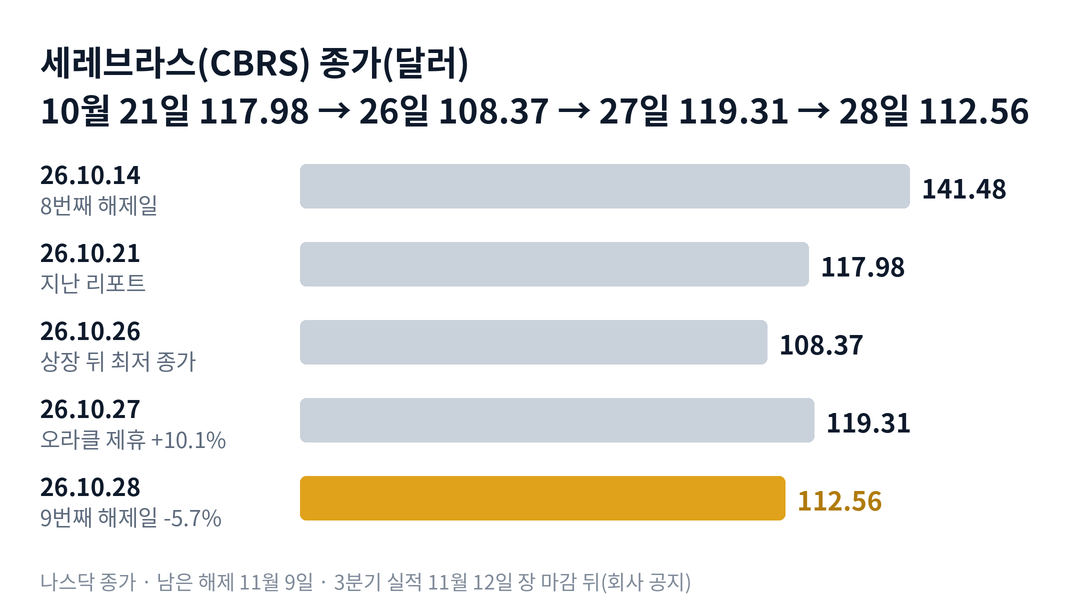
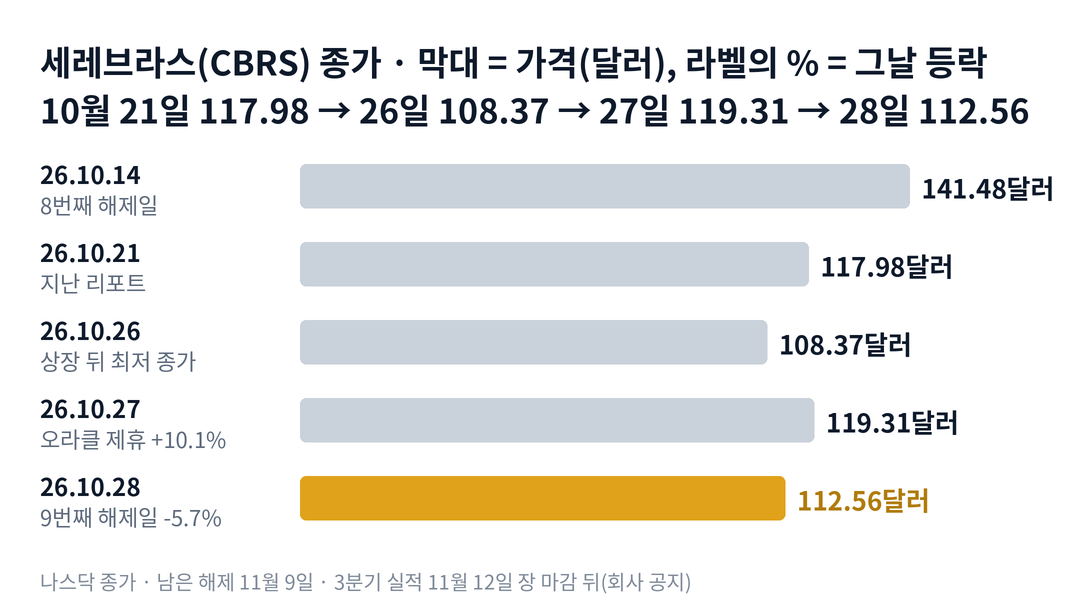
CBRS 10-3 리포트 R1.8 고쳐 쓰기(도입부 압축·EV·RPO·중앙값 병기·유통주식·거래량 대비 물량·국면 정의·판정표 머리·거래량 배수 1.9배 정정) + □ 체크리스트 목록·표 줄바꿈·인쇄 규칙·차트 값 달러 단위
Claude-Session: https://claude.ai/code/session_01DaUBsG9X6bLavyZrFguf5X

diff --git a/static/css/site.css b/static/css/site.css
@@ -159,6 +159,10 @@ button { font: inherit; color: inherit; }
 .prose blockquote { margin: 1.3em 0; padding: 4px 18px; border-left: 4px solid var(--line); color: var(--muted); }
 .table-wrap { overflow-x: auto; margin: 1.3em 0; -webkit-overflow-scrolling: touch; border-radius: 8px; }
 .prose table { width: 100%; border-collapse: collapse; font-size: .88rem; }
+.prose td, .prose th { word-break: keep-all; overflow-wrap: anywhere; }
+.prose ul.checklist { list-style: none; padding-left: 0; }
+.prose ul.checklist li { padding-left: 1.3em; text-indent: -1.3em; }
+@media print { .table-wrap { overflow: visible; } .prose table, .prose tr { page-break-inside: avoid; break-inside: avoid; } }
 .prose .table-text td, .prose .table-text th { white-space: normal; text-align: left !important; vertical-align: top; min-width: 5.5em; }
 .prose .table-text table { font-size: .85rem; }
 @media (max-width: 640px) {

diff --git a/tools/charts/make_chart.py b/tools/charts/make_chart.py
@@ -23,7 +23,9 @@ for i, (dt, lab, v) in enumerate(rows):
     y0 = TOP + i * RH; last = i == len(rows) - 1
     T(40, y0 + 6, dt, F("Bold", 24), "#0E1A2B"); T(40, y0 + 38, lab, F("Regular", 22), "#5E6B7D")
     d.rounded_rectangle([L * S, (y0 + 14) * S, bx(v) * S, (y0 + 58) * S], radius=6 * S, fill="#E0A21B" if last else "#C9D1DB")
-    txt = ("{:,.0f}원".format(v) if c.get("unit") == "krw" else "{:,.0f}억 달러".format(v) if c.get("unit") == "usd_eok" else ("%.4f" % v).rstrip("0") if v < 1 else ("%.3f" % v if round(v, 2) != round(v, 3) else "%.2f" % v)); f = F("Bold", 26); lx = bx(v) + 12
+    txt = ("{:,.0f}원".format(v) if c.get("unit") == "krw" else "{:,.0f}억 달러".format(v) if c.get("unit") == "usd_eok" else ("%.4f" % v).rstrip("0") if v < 1 else ("%.3f" % v if round(v, 2) != round(v, 3) else "%.2f" % v))
+    if c.get("unit", "usd") == "usd": txt += "달러"  # 막대는 가격 수준, 라벨의 %는 그날 등락 — 단위를 붙여 둘을 구분(독자 검토 10-29)
+    f = F("Bold", 26); lx = bx(v) + 12
     if ref and v < ref["v"] and lx + d.textlength(txt, font=f) / S > bx(ref["v"]) - 6: lx = bx(ref["v"]) + 10
     T(lx, y0 + 18, txt, f, "#B07B0C" if last else "#0E1A2B")
 if ref:

diff --git a/tests/test_build.py b/tests/test_build.py
@@ -449,6 +449,9 @@ if (D / "index.html").exists():
     _rp = (D / "r/rgti-2026-10/index.html").read_text(encoding="utf-8") if (D / "r/rgti-2026-10/index.html").exists() else next((D / "r").glob("*/index.html")).read_text(encoding="utf-8")
     check('data-sent ' in _rp and 'data-where="report"' in _rp and "sentiment.js" in _rp and _rp.index('class="summary-box"') < _rp.index('class="prose"') < _rp.index("data-sent ") < _rp.index('class="disclaimer-box"'),
           "리포트 본문 끝(출처 위, SKILL R1.7 2026-10-28): 같은 종목 투자 심리 투표")
+    _ck = [p.read_text(encoding="utf-8") for p in (D / "r").glob("*/index.html")]
+    check(any('<ul class="checklist">' in h for h in _ck) and not any(re.search(r"<ul>\s*<li>[□☐]", h) for h in _ck),
+          "□ 체크리스트는 글머리 점 없는 checklist 목록(독자 검토 10-29)")
     _home = (D / "index.html").read_text(encoding="utf-8")
     _c1 = re.search(r'<article class="card post"[^>]*data-ticker="([A-Z0-9.]+)".*?</article>', _home, re.S)
     check(_c1 and 'data-fpoll data-ticker="' + _c1.group(1) + '"' in _c1.group(0) and 'data-fp-v="bull"' in _c1.group(0)

diff --git a/build.py b/build.py
@@ -291,6 +291,8 @@ def wrap_tables(html_in: str, extra: str = "") -> str:
                 return re.sub(r"<td(\s[^>]*)?>", lambda m: f'<td data-label="{html.escape(next(i, ""))}"{m.group(1) or ""}>', rm.group(0))
             return re.sub(r"<tr>.*?</tr>", row, t, flags=re.S)
         html_in = re.sub(r"<table>.*?</table>", label, html_in, flags=re.S)
+    # '□ …' 항목만 있는 목록은 체크리스트: 글머리 점(•)과 □가 겹치지 않게 class를 단다(독자 검토 10-29)
+    html_in = re.sub(r"<ul>(\s*<li>[□☐].*?)</ul>", lambda m: m.group(0) if re.search(r"<li>(?![□☐])", m.group(1)) else f'<ul class="checklist">{m.group(1)}</ul>', html_in, flags=re.S)
     return html_in.replace("<table>", f'<div class="{cls}"><table>').replace("</table>", "</table></div>")
 
 

diff --git a/content/reports/cbrs-2026-10-3.md b/content/reports/cbrs-2026-10-3.md
@@ -6,11 +6,12 @@ date: 2026-10-28
 data_as_of: 2026-10-28
 summary: "세레브라스(CBRS) 주가는 반도체 ETF가 2.1% 오른 10월 28일, 약 1,940만 주가 풀리며 5.7% 내린 112.56달러로 마감했습니다. 해제일 아홉 번 가운데 당일 내린 것은 몇 번이었을까요?"
 key_points:
-  - "10월 27일 119.31달러 → 28일 112.56달러(-5.7%). 장중 한때 105.36달러로 상장 뒤 가장 낮았고, 같은 날 반도체 ETF(SOXX)는 +2.1%였습니다."
-  - "전날 27일에는 오라클 클라우드와의 제휴 계획 발표와 반도체 업종 반등이 겹쳐 +10.1%였습니다. 그 상승분의 절반 넘게가 해제일 하루에 사라졌습니다."
-  - "남은 일정은 11월 9일 나머지 락업 해제와 11월 12일 장 마감 뒤 3분기 실적입니다. 실적보다 해제가 사흘 먼저입니다."
+  - "주가: 10/28 종가 112.56달러(-5.7%) · 장중 105.36달러(상장 뒤 최저) · 같은 날 SOXX +2.1%"
+  - "재료: 락업 해제 약 1,940만 주(직전 5거래일 평균 거래량의 약 2.0배) · 전날 오라클 제휴 계획 +10.1%"
+  - "일정: 11/9 마지막 해제 → 11/12 3분기 실적(장 마감 뒤)"
 youtube_id: "bwNYWsN2VBI"
 draft: false
+updated: 2026-10-29
 sources:
   - title: "나스닥 CBRS 일별 시세(2026-05-14~2026-10-28)"
     url: "https://api.nasdaq.com/api/quote/CBRS/historical?assetclass=stocks&fromdate=2026-05-01&limit=9999"
@@ -62,9 +63,9 @@ sources:
 
 > **핵심:** 이날 하락은 업종이 아니라 '풀린 주식'의 무게였고, 그 무게는 지난 해제일들과 거의 같은 크기였습니다.
 
-전날 세레브라스는 10.1% 올랐습니다. 오라클 클라우드에서 세레브라스의 빠른 추론 서비스를 제공할 계획이라는 회사 발표와 반도체 업종 반등이 겹친 날이었습니다. 하지만 해제일 하루에 그 상승분의 절반 넘게가 사라졌습니다. 장중 한때 105.36달러까지 내려가 상장 뒤 가장 낮은 가격도 찍었습니다.
+업종이 오르고 회사의 새 공시도 없던 날 이 회사만 내렸다면, 남는 설명은 해제 물량입니다. **2026.10.28 진단: 국면 B(공급 소화)의 마지막 구간, 남은 시험은 11월 9일 해제와 11월 12일 실적 — 근거는 5부.** 해제일 아홉 번의 기록은 3부 표, 풀린 주식이 거래량의 몇 배인지는 1부 표에 있습니다.
 
-같은 날 반도체 업종은 올랐고, 회사의 새 공시도 없었습니다. 남은 설명은 해제 물량입니다. **2026.10.28 진단: 국면 B의 마지막 구간, 남은 시험은 11월 9일 해제와 11월 12일 실적 — 근거는 5부.** 상장 뒤 해제일 아홉 번의 당일과 다섯 거래일 뒤 기록은 3부의 '락업 해제일 아홉 번, 당일과 다섯 거래일 뒤는?' 표에 모았습니다.
+> **국면 정의(세레브라스 시리즈 공통):** 국면 A 기대의 확산 — 공모가보다 크게 높고 다음 해제까지 2주 넘게 남은 때. 국면 B 공급 소화 — 1~2주 간격으로 해제가 이어지고 반등 고점이 낮아지는 때. 국면 C 공급 종료 뒤 재평가 — 마지막 해제 뒤 최저 종가를 지키고 실적 뒤 하락 패턴이 깨지는 때.
 
 > **유의사항** 저자는 금융·투자 자문가가 아닙니다. 이 글은 공개 공시와 시세를 정리한 교육용 분석이며 특정 종목의 매수·매도를 권하지 않습니다. 과거 패턴은 미래 수익을 보장하지 않습니다. 실제 투자 전에는 최신 공시를 직접 확인하세요.
 
@@ -72,12 +73,12 @@ sources:
 
 지난 리포트(10월 21일 기준, [세레브라스, 락업이 풀린 날보다 그 앞뒤에 더 빠졌다](/r/cbrs-2026-10-2/))는 지금을 '국면 B의 마지막 구간'으로 진단했습니다. 국면 C로 넘어가는지는 11월 9일 마지막 해제와 11월 12일 실적 뒤에 판단할 수 있다고 적었습니다. 그 뒤 주가는 117.98달러에서 112.56달러로 4.6% 내렸습니다.
 
-| 그때 꼽은 것 | 그때 기준 | 10월 28일 | 판정 |
+| 지난 점검 항목 | 당시 판단 기준 | 실제 결과(10월 28일) | 판정 |
 | --- | --- | --- | --- |
 | 진단: 국면 B의 마지막 구간 | C 전환은 마지막 해제·실적 뒤 판단 | 장중 상장 뒤 최저, C 신호 없음 | 적중 |
 | 시나리오 4: 업종 반등에 동행 | 업종이 오르는 날 함께 오르는가 | 10월 27일 SOX +3.6%에 +10.1% | 적중 |
-| 시나리오 3: 고객 이탈 우려 확대 | 다른 칩 사용의 공식 확인 | 공식 확인 없음, 오히려 오라클 제휴 발표 | 아직 일어나지 않음 |
-| 시나리오 1·2: 해제 뒤 재평가 또는 실적 하락 | 11월 9일 해제·11월 12일 실적 | 해제 1회 남음, 실적 전 | 확인 전 |
+| 시나리오 3: 고객 이탈 우려 확대 | 다른 칩 사용의 공식 확인 | 공식 확인 없음, 오히려 오라클 제휴 발표 | 진행 중(아직 일어나지 않음) |
+| 시나리오 1·2: 해제 뒤 재평가 또는 실적 하락 | 11월 9일 해제·11월 12일 실적 | 해제 1회 남음, 실적 전 | 진행 중(11월 13일 판정) |
 
 지난 예측 성적: 적중 2 · 빗나감 0 · 아직 일어나지 않음 1 · 확인 전 2. 다만 업종 동행은 하루뿐이었습니다. 다음 날 업종이 또 올랐는데도 세레브라스는 해제일에 밀렸습니다. 이번 리포트가 새로 답하는 질문은 하나입니다. 해제일은 매번 얼마나 무거웠고, 마지막 해제 뒤에는 무엇이 달라질까요.
 
@@ -96,10 +97,13 @@ sources:
 | 항목 | 값 | 계산 |
 | --- | --- | --- |
 | 시가총액 | 약 267억 달러 | 112.56달러 × 2억 3,756만 주(8월 5일 기준) |
-| 현금을 뺀 회사 가치 | 약 190억 달러 | 시가총액 − 현금 86억 달러 + 오픈에이아이 대출 약 9억 달러 |
+| 현금을 뺀 회사 가치(기업가치·EV) | 약 190억 달러 | 시가총액 − 현금 86억 달러 + 오픈에이아이 대출 약 9억 달러 |
 | 올해 핵심 매출 전망 대비 | 약 21배 | 회사 전망 중간값 8억 8,500만 달러 |
-| 쌓인 일감 대비 시가총액 | 약 1.05배 | 일감 254억 달러 |
-| 10월 28일 풀린 주식 | 약 1,940만 주 | 전체 주식의 약 8.2% |
+| 쌓인 일감(잔여수행의무·RPO) 대비 시가총액 | 약 1.05배 | 6월 30일 기준 254억 달러 |
+| 10월 28일 풀린 주식 | 약 1,940만 주 | 전체 주식의 약 8.2% · 거래되는 A주(8월 5일 1억 1,225만 주)의 약 17% |
+| 풀린 주식 ÷ 평소 거래량 | 약 2.0일치 | 직전 5거래일 평균 976만 주(20거래일 평균 1,078만 주면 약 1.8일치) |
+
+풀린 주식을 전체 주식으로 나누면 8.2%로 작아 보이지만, 시장에서 실제로 거래되는 A주로 나누면 약 17%, 평소 거래량으로 보면 이틀치 물량입니다. A주는 B주 전환으로 8월 5일 뒤 더 늘었을 수 있어, 실제 비율은 17%보다 조금 낮을 수 있습니다.
 
 이 말은 곧 주가는 내려왔지만 회사가 내건 숫자(전망 매출과 일감)는 그대로라는 뜻입니다. 매출 배수는 10월 9일 약 35배, 10월 21일 약 23배에서 약 21배로 더 낮아졌습니다. 가격을 끌어내린 것은 숫자가 아니라 공급 일정이었다는 해석이 이 표에서 나옵니다.
 
@@ -115,7 +119,7 @@ sources:
 
 그날 저녁 회사 임원 한 명이 주식 6만 주를 팔 예정이라는 신고서(Form 144)를 냈습니다. 신고서에 적힌 시가는 약 650만 달러이고, 같은 날 행사한 스톡옵션 주식이 들어 있습니다. 실제로 팔았는지는 앞으로 나올 매도 보고서(Form 4)로 확인해야 합니다. 해제 물량 약 1,940만 주에 비하면 아주 작은 규모입니다.
 
-10월 28일 수요일에는 새 해제분이 풀렸습니다. 주가는 장 초반 120.60달러까지 올랐다가, 장중 105.36달러까지 밀렸습니다. 고가와 저가의 차이가 전날 종가의 약 12.8%였습니다. 종가는 112.56달러로 전날보다 5.7% 낮았고, 거래량은 약 1,880만 주로 직전 5거래일 평균의 약 2.1배였습니다.
+10월 28일 수요일에는 새 해제분이 풀렸습니다. 주가는 장 초반 120.60달러까지 올랐다가, 장중 105.36달러까지 밀렸습니다. 고가와 저가의 차이가 전날 종가의 약 12.8%였습니다. 종가는 112.56달러로 전날보다 5.7% 낮았고, 거래량은 약 1,880만 주로 직전 5거래일 평균(976만 주)의 약 1.9배였습니다.
 
 같은 날 다른 종목은 반대였습니다. 반도체 ETF인 SOXX는 2.1%, SMH(또 다른 반도체 ETF)는 1.7% 올랐습니다. AMD는 3.2%, 오라클은 10.6% 올랐고, 엔비디아만 1.2% 내렸습니다. 이 말은 곧 28일 하락은 업종 바람이 아니라 세레브라스만의 무게였다는 뜻입니다. 이날 회사의 새 공시는 없었습니다.
 
@@ -123,7 +127,7 @@ sources:
 
 ## 3부. 해제일의 기록
 
-> **핵심:** 해제일 아홉 번 가운데 일곱 번은 당일 내렸고, 당일 하락의 가운데 값은 -5.2%였습니다. 이번 -5.7%는 그 가운데 값과 거의 같은 크기입니다.
+> **핵심:** 해제일 아홉 번 가운데 일곱 번은 당일 내렸고, 당일 하락의 가운데 값(중앙값)은 -5.2%였습니다. 이번 -5.7%는 그 가운데 값과 거의 같은 크기입니다.
 
 세레브라스의 락업은 한 번에 풀리지 않고, 상장 다음 날부터 열한 번에 나뉘어 풀립니다. 투자설명서에 적힌 조기 해제 물량을 모두 더하면 약 1억 7,110만 주, 전체 주식의 약 72%입니다. 여기서 '다섯 거래일 뒤'는 해제일을 첫날로 세어 다섯 번째 거래일 종가를, 해제 전날 종가와 비교한 값입니다.
 
